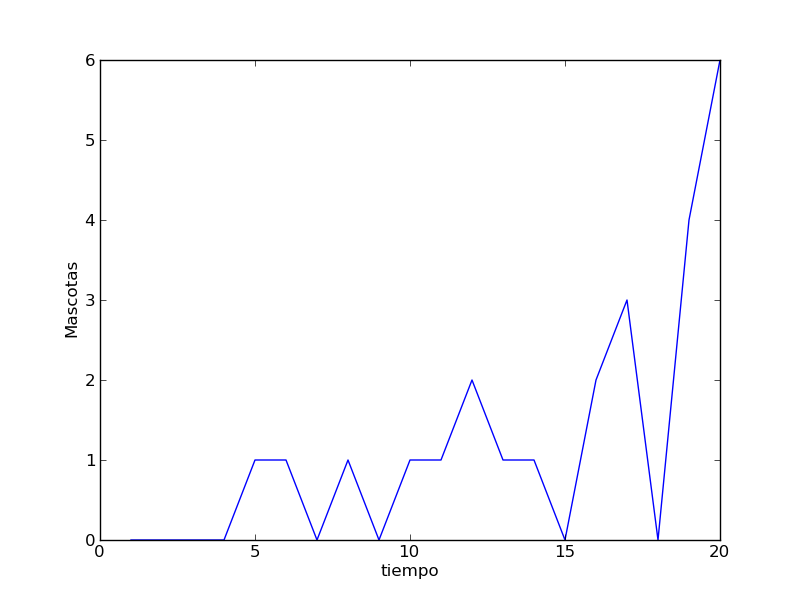
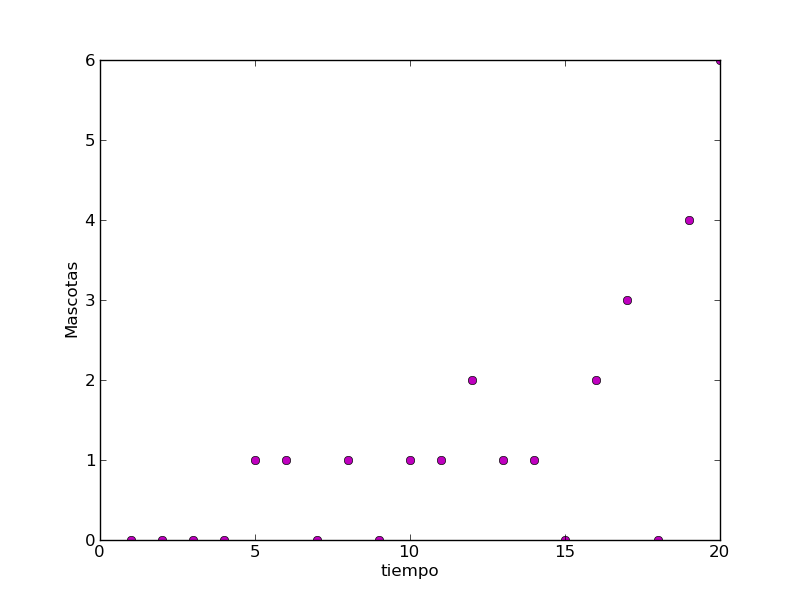
Add files via upload
Gráfica dispersión.

diff --git a/colorgraf.py b/colorgraf.py
@@ -1,0 +1,13 @@
+# lineplot.py
+import numpy as np
+import pylab as pl
+# Make an array of x values
+x = [1,2,3,4,5,6,7,8,9,10,11,12,13,14,15,16,17,18,19,20]
+pl.xlabel('tiempo')
+# Make an array of y values for each x value
+y = [0,0,0,0,1,1,0,1,0,1,1,2,1,1,0,2,3,0,4,6]
+pl.ylabel('Mascotas')
+# use pylab to plot x and y
+pl.plot(x,y, 'mo')
+# show the ploton the screen
+pl.savefig('tempmod.png')
